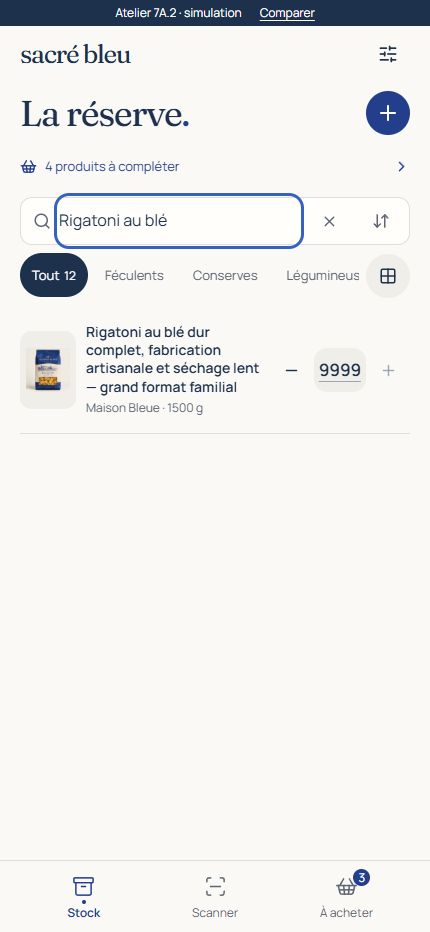
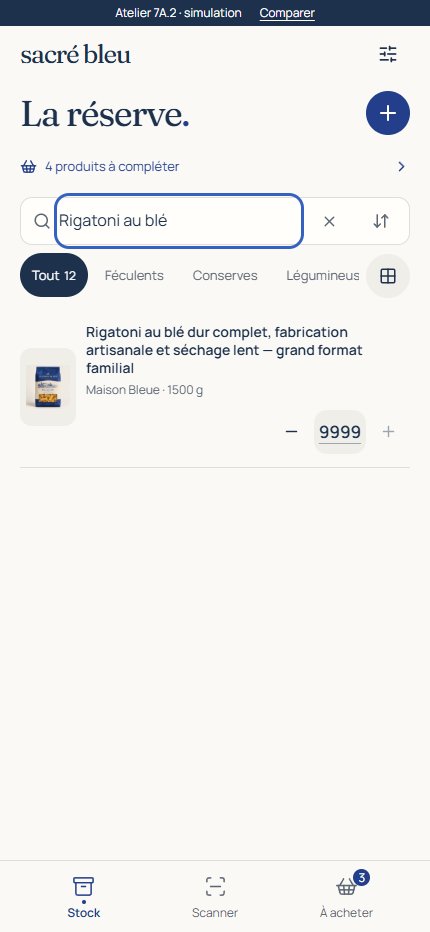
[CF-Pages-Skip] Keep long names readable and measure flicks from touch timestamps

diff --git a/explorations/7a/src/useContentSwipe.ts b/explorations/7a/src/useContentSwipe.ts
@@ -72,7 +72,7 @@ export function useContentSwipe(
         width: root.clientWidth,
         index: latest.current.index,
         locked: false,
-        time: performance.now(),
+        time: e.timeStamp,
       };
     };
     const move = (e: TouchEvent) => {
@@ -115,7 +115,7 @@ export function useContentSwipe(
       if (!t || root.clientWidth !== done.width) return;
       const dx = t.clientX - done.x,
         dy = Math.abs(t.clientY - done.y);
-      const next = swipeDestination(done.index, dx, dy, done.width, performance.now() - done.time);
+      const next = swipeDestination(done.index, dx, dy, done.width, e.timeStamp - done.time);
       if (next !== null) latest.current.navigate(next);
     };
     root.addEventListener('touchstart', start, { passive: true });

diff --git a/explorations/7a/src/Inventory.tsx b/explorations/7a/src/Inventory.tsx
@@ -130,7 +130,7 @@ export const Inventory = memo(function Inventory({
         <div className={`inventory inventory-${layout}`} data-layout={layout}>
           {products.map((p) => (
             <article
-              className={`product-card ${p.quantity === 0 ? 'exhausted' : ''}`}
+              className={`product-card ${p.quantity === 0 ? 'exhausted' : ''} ${p.name.length > 44 ? 'long-title' : ''}`}
               key={p.id}
               data-product={p.id}
             >

diff --git a/explorations/7a/src/convergence.css b/explorations/7a/src/convergence.css
@@ -1759,3 +1759,20 @@ main {
     opacity: 1;
   }
 }
+
+/* Long user/provider names retain reading width; ordinary rows stay compact. */
+@media (max-width: 599px) {
+  .inventory-compact .long-title .card-copy {
+    grid-column: 2/4;
+    grid-row: 1;
+  }
+  .inventory-compact .long-title .product-object {
+    grid-row: 1/3;
+  }
+  .inventory-compact .long-title .stepper {
+    grid-column: 2/4;
+    grid-row: 2;
+    justify-self: end;
+    margin-top: 8px;
+  }
+}

diff --git a/docs/design/phase7a/convergence/VALIDATION.md b/docs/design/phase7a/convergence/VALIDATION.md
@@ -28,6 +28,8 @@ All requests in the test context are observed and non-loopback origins blocked/a
 
 ## Deployment safeguards and limits
 
+The first remote 7A.2 campaign caught a runner-dependent fast-flick test: a two-event gesture could take longer than its intended fast duration across CDP calls. Velocity now uses native touch-event timestamps, rather than handler-execution time, and the recorded browser flick supplies a 60 ms event timeline. Slow/short/diagonal rejection and the existing speed/distance thresholds remain unchanged. This improves input-time measurement; it does not claim Safari/device calibration. After this event-time correction, the complete local interaction journey passed with --checks-only; the unchanged seven-size visual matrix had passed after the long-name layout change. The corrected head repeats both in the existing full CI.
+
 PR #9 starts open/unmerged, head feature branch, base release/v1.1 at `b0a39713f3fb73a55d9fdb90f01a03d77ec14205`. Workspace initially clean at the requested baseline. No force push, reset, branch protection change, release/tag, deployment command, hosted Supabase call or migration.
 
 The [original read-only Pages observation](../SAFETY.md) was main production / previews None. A fresh whole-window dashboard capture was rejected by automatic approval review because unrelated private tabs could be exposed. No bypass or settings modification was attempted; a fresh signed-in Pages settings/deployment-history audit is **unverified**. The safe alternative is feature-only publication with **`[CF-Pages-Skip]` at the start of every new commit message**, which Cloudflare documents as omitting that deployment without configuration changes. [Official GitHub integration / skip-prefix contract](https://developers.cloudflare.com/pages/configuration/git-integration/github-integration/). No Pages check is expected when skipped; absence alone is not an independent dashboard audit.
@@ -44,6 +46,6 @@ The [original read-only Pages observation](../SAFETY.md) was main production / p
 | npm run test:ui:browser                 | Passed existing V1 edge/navigation/modal/camera/keyboard regression, no stock/external request.                                                                                                                                                             |
 | npm run test:i18n:browser               | Passed existing V1 French/English/form/focus/320px/storage-failure regression, zero external requests.                                                                                                                                                      |
 
-Final local 100/300 catalogue samples: filter 33/72 ms; touch script 43/96 ms over 20 deliberate movement events, measured layout 0 ms during that drag. These single warm local Chrome runs include event/React-independent animation work and are **not** frame-rate budgets or physical-device certification. Raw [performance](screenshots/performance.json) and [geometry](screenshots/measurements.json) are committed. The event path uses rAF/transform; it does not update React on touchmove. No claim of universal inactive-render avoidance or virtualization is made.
+Final local 100/300 catalogue samples: filter 33/75 ms; touch script 41/85 ms over 20 deliberate movement events, measured layout 0 ms during that drag. These single warm local Chrome runs include event/React-independent animation work and are **not** frame-rate budgets or physical-device certification. Raw [performance](screenshots/performance.json) and [geometry](screenshots/measurements.json) are committed. The event path uses rAF/transform; it does not update React on touchmove. No claim of universal inactive-render avoidance or virtualization is made.
 
 No new dependencies, migrations, backend types, CI permissions/actions/jobs, root production configuration or V1 behavior changed. Local backend reset/pgTAP/API/physical-device campaigns were not run because this phase changes no backend contract. The existing full PR CI jobs remain required; their remote result is checked after push separately from these local results.

diff --git a/docs/design/phase7a/convergence/README.md b/docs/design/phase7a/convergence/README.md
@@ -21,7 +21,7 @@ The 7A.1 reference preserves its implementation, including known defects, in `ba
 
 **A** removes the framed card, pencil overlay and divided footer. The object, name, package and tactile stock control share one composition. Warning text remains ordinary readable content. Names can grow instead of being truncated; very long names increase a shelf row's height. Contain-fit preserves packaged goods and original label colours. The shelf has stronger photographic recognition, especially for visually similar packages, but spends more space on each object.
 
-**B is the recommended everyday default.** A distinct horizontal list puts recognition, name and stock on the same row. The large, stable +/− targets remain direct; tapping the underlined quantity proposes a multi-unit **delta**, with confirmed stock and proposed result shown separately. It is faster to scan larger catalogues and less sensitive to narrow/low-resolution images. The in-memory display toggle exposes A without a persistent preference. The default does not change with viewport height.
+**B is the recommended everyday default.** A distinct horizontal list puts recognition, name and stock on the same row. The large, stable +/− targets remain direct; tapping the underlined quantity proposes a multi-unit **delta**, with confirmed stock and proposed result shown separately. It is faster to scan larger catalogues and less sensitive to narrow/low-resolution images. The in-memory display toggle exposes A without a persistent preference. The default does not change with viewport height. On phones, genuinely long names span the full text area with stock controls underneath; ordinary rows keep their single-line control placement. This prevents the 320 px long-name case degenerating into a narrow text column.
 
 At 375 × 812, B shows **three complete products with controls**, compared with two for A. At 390 × 844 and 430 × 932 it shows four. The shelf still exposes larger product imagery and remains a useful explicit option. At 320 × 568 the photographic shelf cannot fit a complete first card below its filters; this is a real trade-off, not hidden by a height-triggered replacement layout. B shows the first complete row and the following product. [Exact measurements](screenshots/measurements.json), [320 shelf](screenshots/shelf-320x568.png), [320 list](screenshots/compact-320x568.png), [whole comparison](screenshots/comparison-inventory.png).
 
